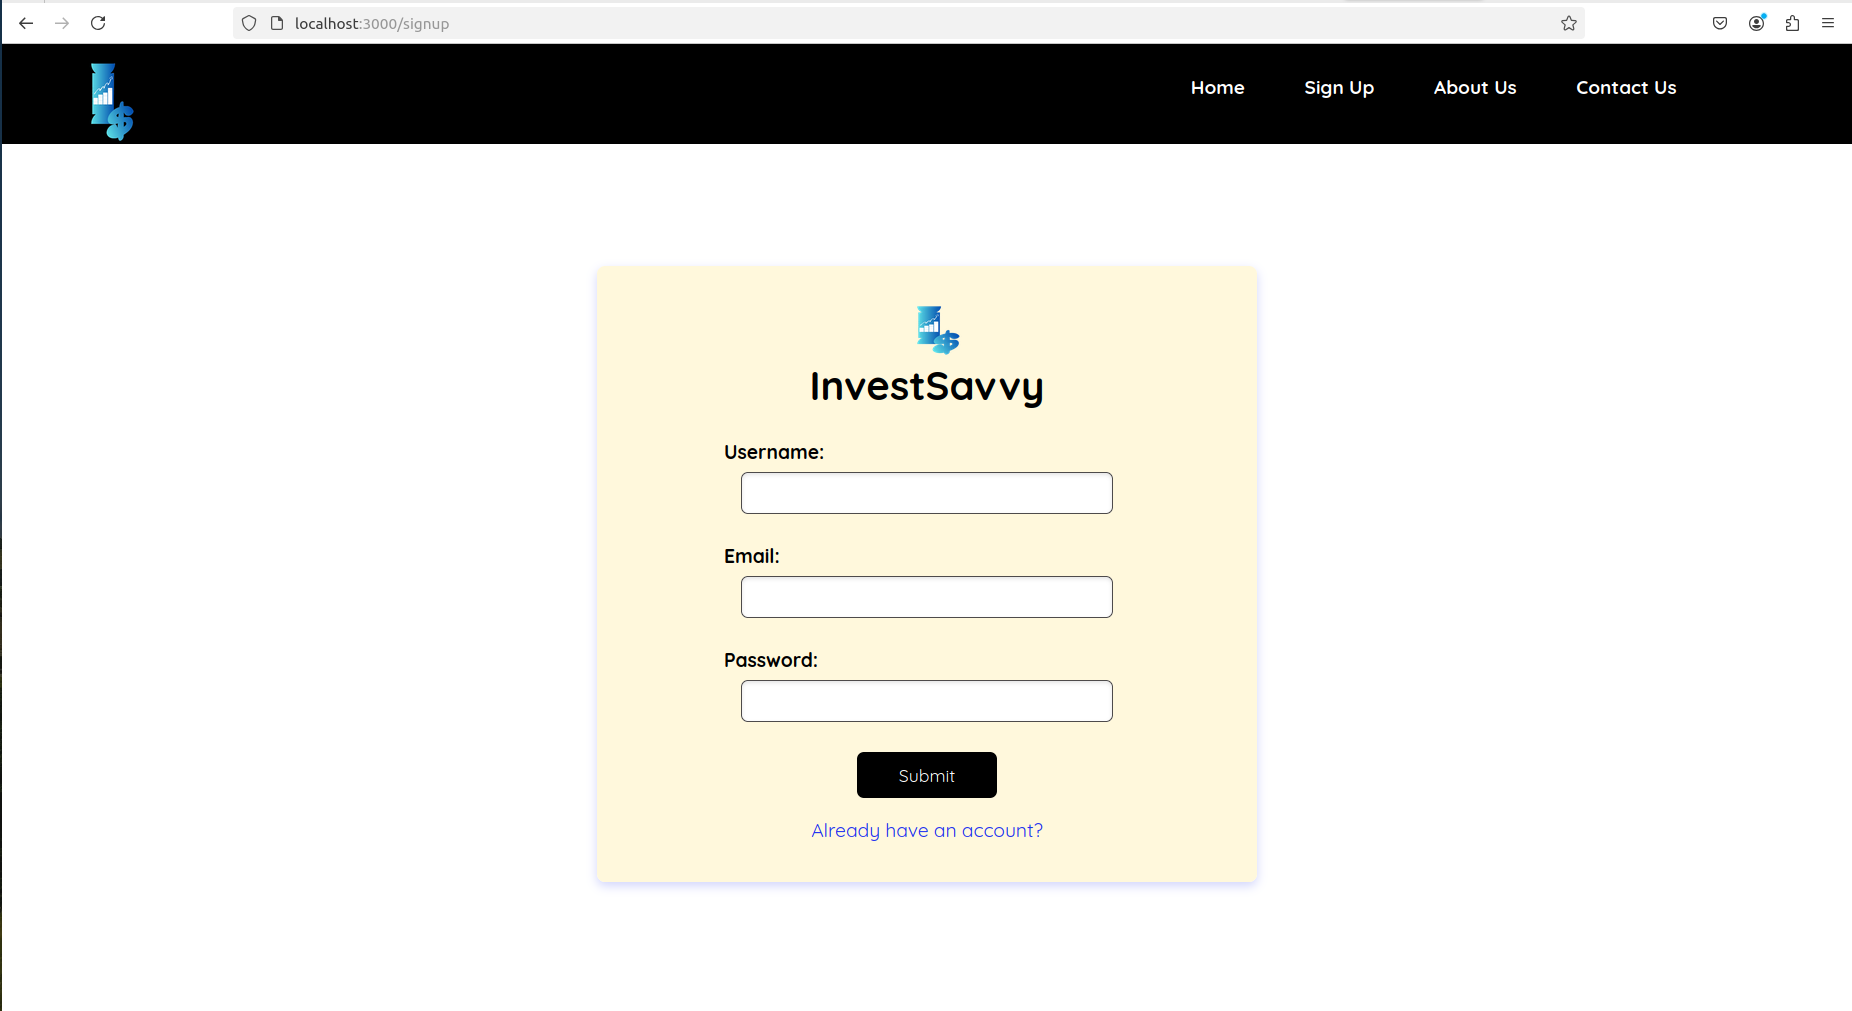
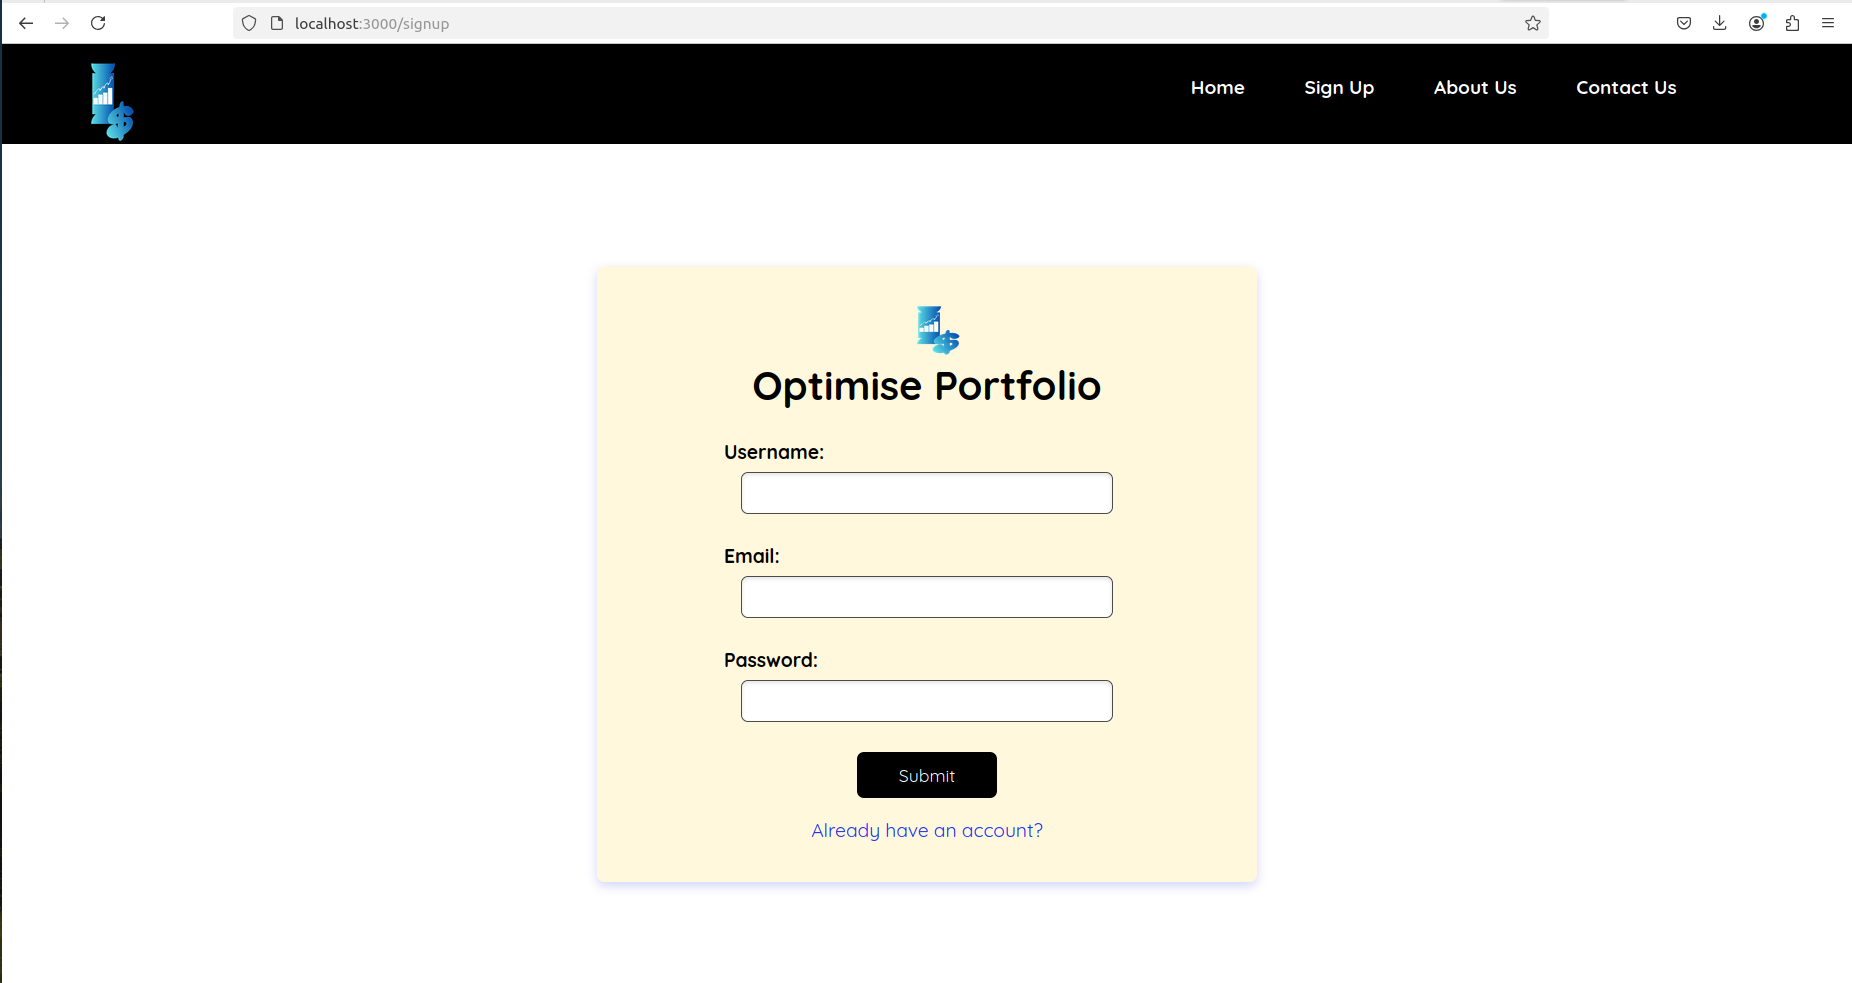
changed header

diff --git a/client/src/pages/login.js b/client/src/pages/login.js
@@ -27,7 +27,7 @@ const Login = () => {
         <div className="logindiv">
         <div className="login">
             <img src={logo} width={70} height={50}/>
-            <h2>InvestSavvy</h2>
+            <h2>Optimise Portfolio</h2>
             {/* <span role="img" aria-label="rocket">🚀</span> */}
             <form onSubmit = {handleSubmit}>
                 <label>Username: </label>

diff --git a/client/src/pages/signup.js b/client/src/pages/signup.js
@@ -27,7 +27,7 @@ const Signup = () => {
             
         <div className="signup">
             <img src={logo} width={70} height={50}/>
-            <h2>InvestSavvy</h2>
+            <h2>Optimise Portfolio</h2>
             {/* <span role="img" aria-label="rocket">🚀</span> */}
             <form onSubmit = {handleSubmit}>
                 <label>Username:</label>
